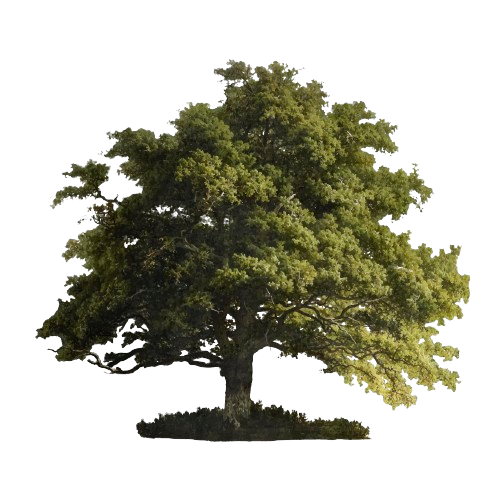
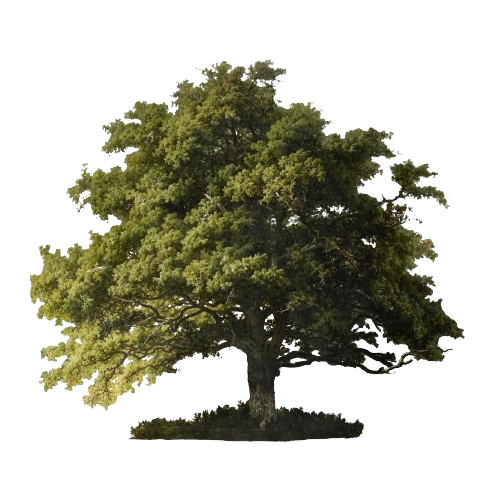
melhorias

diff --git a/src/components/body.css b/src/components/body.css
@@ -1,23 +1,36 @@
 :root {
     --cor1: rgb(255, 255, 255);
-    --cor2: rgb(0, 0, 0);
-    --cor3: #bb9901;
+    --cor2: #001a33;
+    --cor3: rgb(148, 121, 0);
     --cor4: rgb(59, 59, 59);
     --cor5: rgb(0, 99, 124);
-    --cor6: rgb(14, 137, 168);
+    --cor6: #91d1eb;
+    --cor7: radial-gradient(ellipse at center, #fff7db 0%, #f9df9c 50%, #ffc066 100%);
+    --cor8:black;
 }
 
 body {
-    overflow-y: hidden;
+  margin: 0;
+  padding: 0;
+  background-color:  #87ceeb;
+  position: relative;
+  height: 100vh;
+  width: 100vw;
+  overflow: hidden;
+  display: flex;
+  align-items: center;
+  justify-content: center;
+  color: var(--cor8);
+  font-family: Arial, sans-serif;
+   transition: background-color 1s ease;
 }
 
 .body-ContainerEscura{
-    background-color:  var(--cor2);
+    background-color: var(--cor2);
     width: 100vw;
     height: 100vh;
     position: relative;
     overflow: hidden;
-    /* background-image:url('../assets/img/espaco3.jpg') ; */
     background-size: cover;
     background-position: center;
     background-repeat: no-repeat;
@@ -27,7 +40,8 @@ body {
 .body-Container{
     width: 100vw;
     height: 100vh;
-    transition: background-color 1s ease;    
+    background: var(--cor6);
+    transition: background-color 1s ease;
 }
 
 .headerDiv {
@@ -54,47 +68,43 @@ gap: 20px;
 }
 
 .fabianoImg {
-    width: 250px;
+    width: 170px;
     height: auto;
     border-radius: 50%;
-    margin-right: 20px; 
+    margin-top: -170px;
+    margin-right: 0px;
+    background: var(--cor7);
+   
 }
-.fabianoActive {
-    width: 220px;
-    height: auto;
-    border-radius: 50%;
-    margin-right: 20px; 
-    display: none;
-}
-.luaActive {
-    width: 270px;
-    height: 280;
-    border-radius: 0%;
-    margin-right: 20px; 
-}
-.lua{
-    width:220px;
-    height: auto;
-    border-radius: 50%;
-    margin-right: 20px; 
+
+.fabianoActive,.lua  {
     display: none;
 }
 
-.perfil{
+.luaActive {
+    width: 270px;
+    height: auto;
+    border-radius: 50%;
+    margin-right: 20px;
+    margin-top: 70px;
+}
+
+.perfil {
     align-items: center;
     justify-content: center;
     text-align: center;
     margin-right: -30px;
+    margin-top: -120px;
+
 }
 .perfilAtivo{
     align-items: center;
     justify-content: center;
     text-align: center;
-    
 }
 
 .hello {
-    color: var(--cor4);
+    color: var(--cor8);
     font-size: 18px;
 }
 .helloActive {
@@ -104,8 +114,9 @@ gap: 20px;
 .nome {
     font-size: 40px;
     font-family: 'Raleway', sans-serif;
-    font-weight: 900;
-    white-space: nowrap;color:var(--cor3);
+    white-space: nowrap;color:var(--cor2);
+    white-space: nowrap;
+    color: var(--cor8);
 }
 .nomeActive {
     font-size: 40px;
@@ -117,7 +128,7 @@ gap: 20px;
 .subtitulo {
     margin-top: 5px;
     font-size: 25px;
-    color: var(--cor4);
+    color: var(--cor2);
 }
 .subtituloActive {
     margin-top: 5px;
@@ -228,34 +239,35 @@ li {
 }
 
 .arvoreActive {
-    position: absolute;
-        width: 500px;
-        height: auto;
-        top: 32vh;
-        left: 630px;
+border-radius: 50%;
+position: absolute;
+width: 350px;
+height: auto;
+top: 53vh;
+left: 150px;
 }
 
 .arvore {
-    position: absolute;
-        width: 500px;
-        height: auto;
-        top: 32vh;
-        left: 630px;
         display: none;
 }
-.arvoreSecaActive {
-    position: absolute;
-        width: 500px;
-        height: auto;
-        top: 41vh;
-        left: 630px;
+.arvoreNoiteActive {
+border-radius: 50%;
+position: absolute;
+width: 350px;
+height: auto;
+top: 53vh;
+left: 150px;
 }
 
-.arvoreSeca {
+.arvoreNoite {
+    display: none;
+}
+
+.divGrama{
+    background-image: url('../assets/img/grama.png');
     position: absolute;
-        width: 500px;
-        height: auto;
-        top: 32vh;
-        left: 630px;
-        display: none;
+    bottom: 0px;
+    width: 100%;
+    height: 25px;
+    background-repeat: repeat;
 }

diff --git a/src/components/body.tsx b/src/components/body.tsx
@@ -1,12 +1,13 @@
 import '../components/body.css';
 import Header from '../components/header';
-import fabianoIMG from '../assets/img/fotoComFundo.png';
+import fabianoIMG from '../assets/img/fabiano.png';
 import lua from '../assets/img/lua.png';
 import git from '../assets/img/git.png'
 import linkedin from '../assets/img/logotipo-do-linkedin.png'
 import whatsap from '../assets/img/whatsapp.png';
 import arvore from '../assets/img/arvore.png';
-import arvoreSeca from '../assets/img/arvoreSeca.png';
+import arvoreNoite from '../assets/img/arvoreNoite.png';
+// import grama from '../assets/img/grama.png';
 // import nave from '../assets/img/space.gif'
 import passaros from '../assets/img/passaros.gif'
 import { useState } from 'react';
@@ -20,12 +21,11 @@ function Body() {
     return (
         <div className='main-container'>
             <div className={active ? 'body-ContainerEscura' : 'body-Container'}>
-                {/* <img className={active ? 'naveActive' : 'nave'} src={nave} alt="" /> */}
                 <img className={active ? 'passaros1':'passarosActive1'} src={passaros} alt="" />
                 <img className={active ? 'passaros': 'passarosActive2'} src={passaros} alt="" />
                 <img className={active ? 'passaros' : 'passarosActive3'}src={passaros} alt="" />
-                <img className={active ? 'arvore' : 'arvoreActive'} src={arvore} alt="" />
-                <img className={active ? 'arvoreSecaActive' : 'arvoreSeca'} src={arvoreSeca} alt="" />
+                <img className={active ? 'arvore' : 'arvoreActive'} src={arvore} alt=""/>
+                <img className={active ? 'arvoreNoiteActive' : 'arvoreNoite'}  src={arvoreNoite} alt="" />
                 <div className='divHeader'><h1 className='logo'>Fabiano Fregnani</h1>
                     <Header {...{ toggleCor, active }} /></div> 
                 <div className='divBody'>
@@ -42,7 +42,8 @@ function Body() {
                             <li><img className='whatsap' src={whatsap} alt="" /></li>
                         </ul></section>
                     
-                        </div>     
+                </div>  
+                <div className='divGrama'></div>
                    </div>
             </div>
       

diff --git a/src/components/header.css b/src/components/header.css
@@ -1,11 +1,4 @@
-:root {
-   --cor1: rgb(255, 255, 255);
-   --cor2: rgb(0, 0, 0);
-   --cor3: rgb(187, 153, 1);
-   --cor4: rgba(66, 66, 66, 0.664);
-   --cor5: rgb(0, 99, 124);
-   --cor6: rgb(14, 137, 168);
-}
+
 
 .menu-navBar {
    display: flex;
